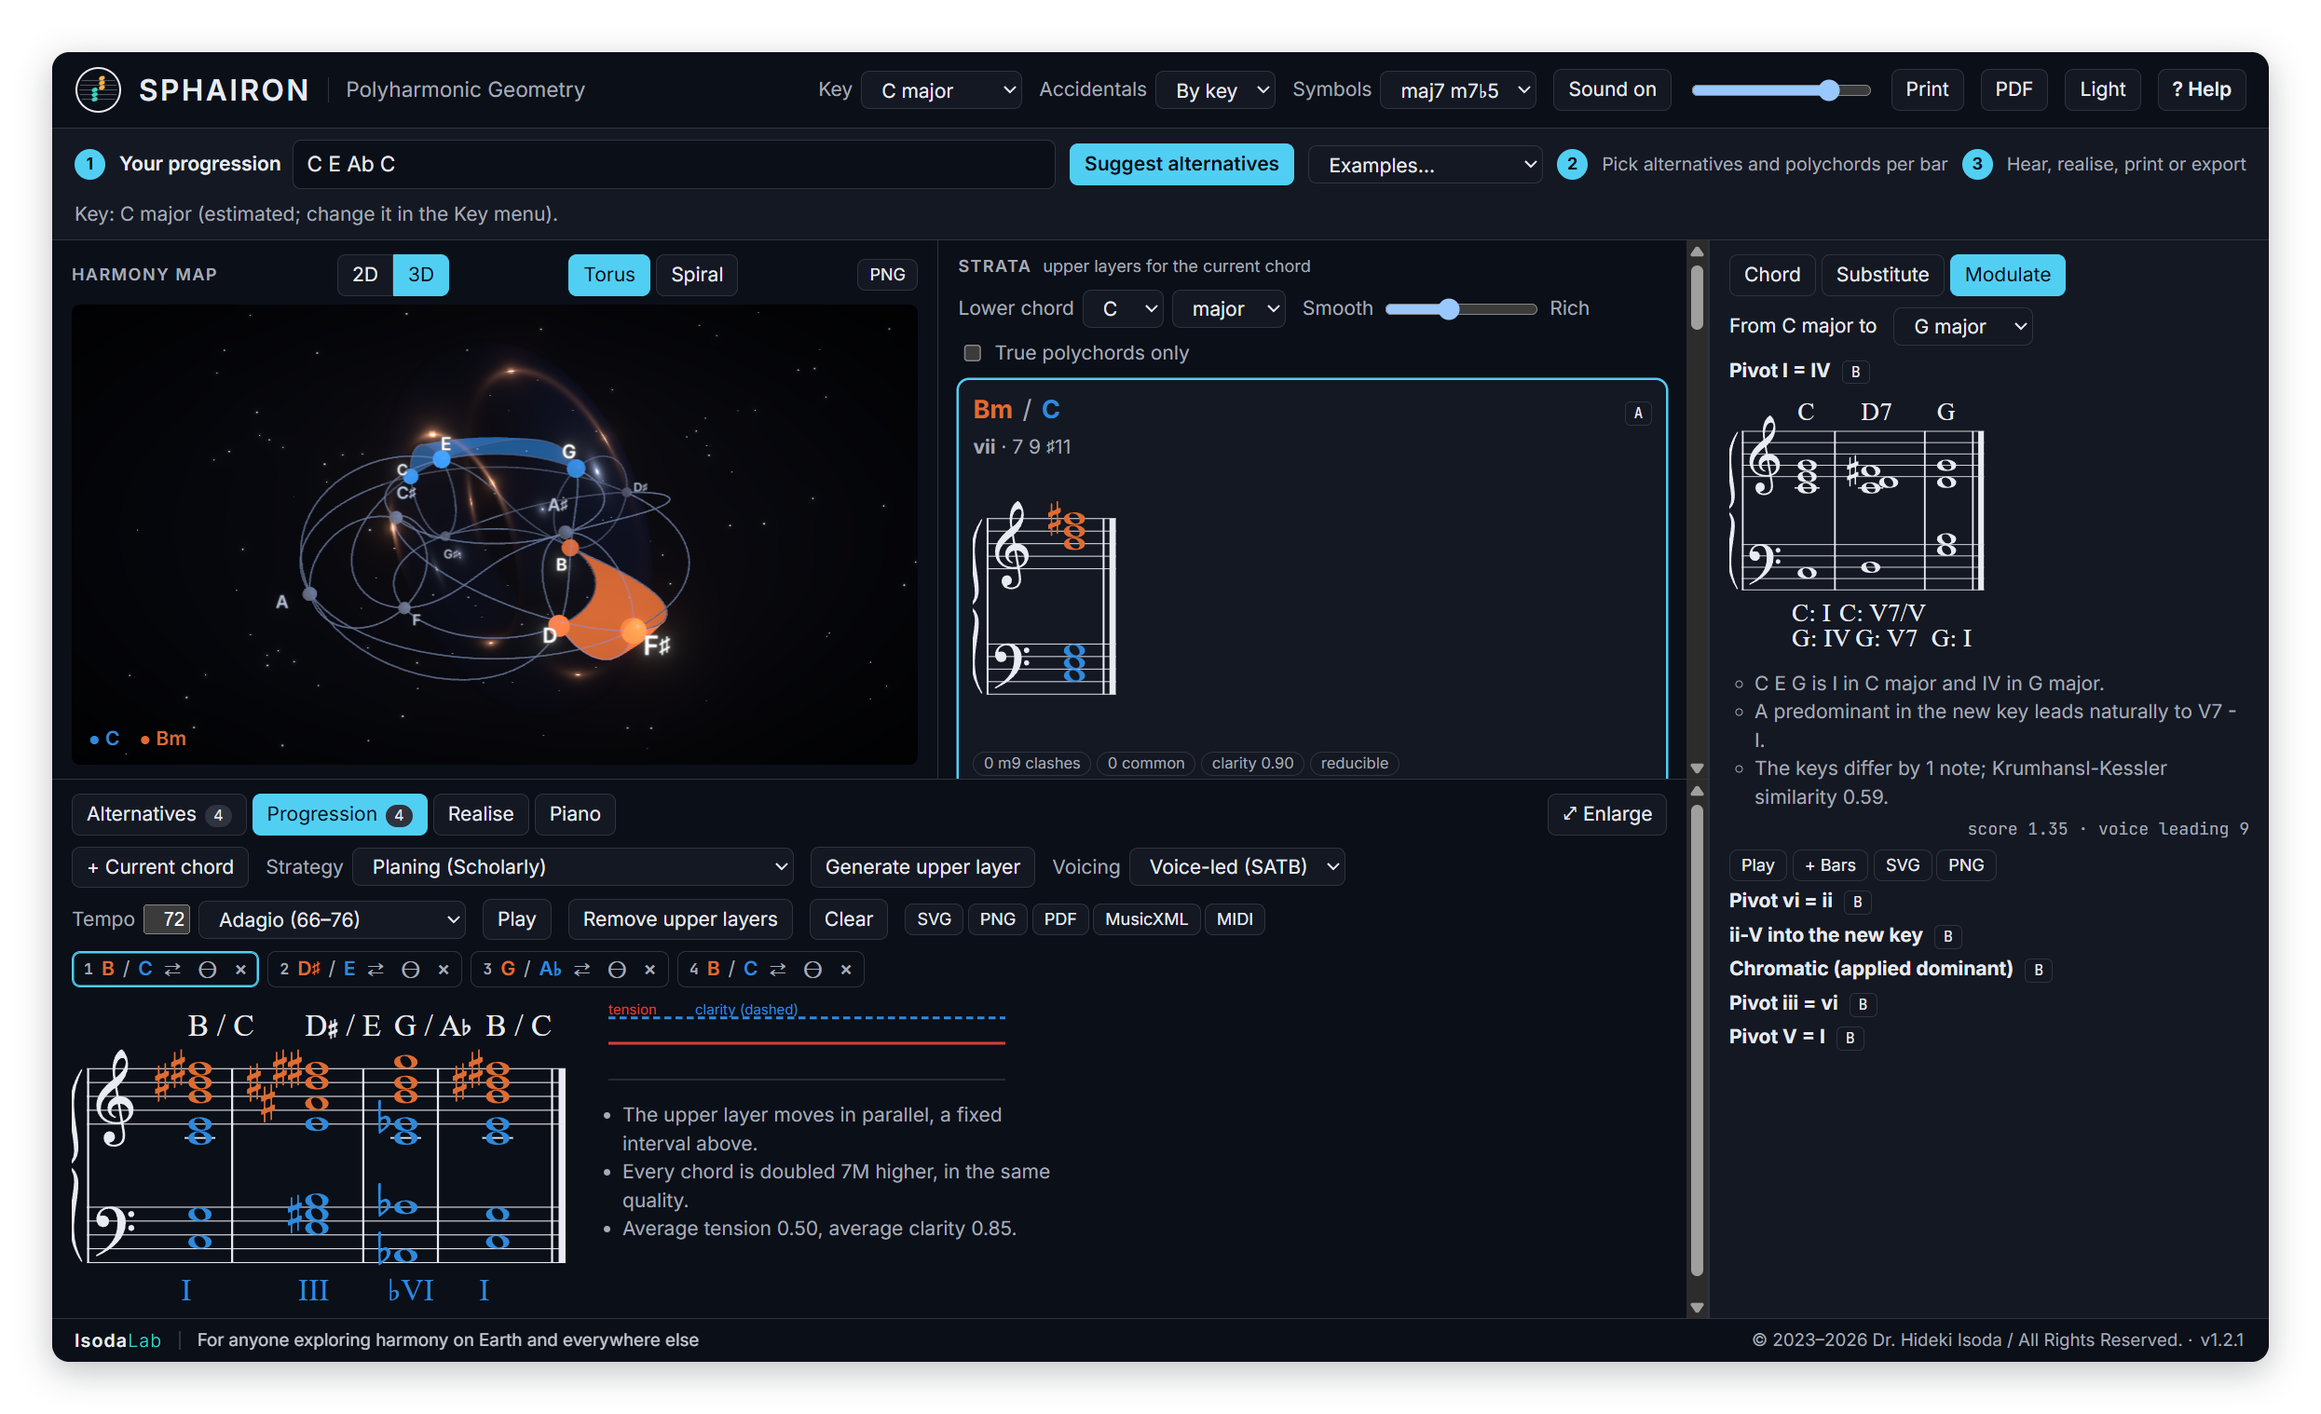
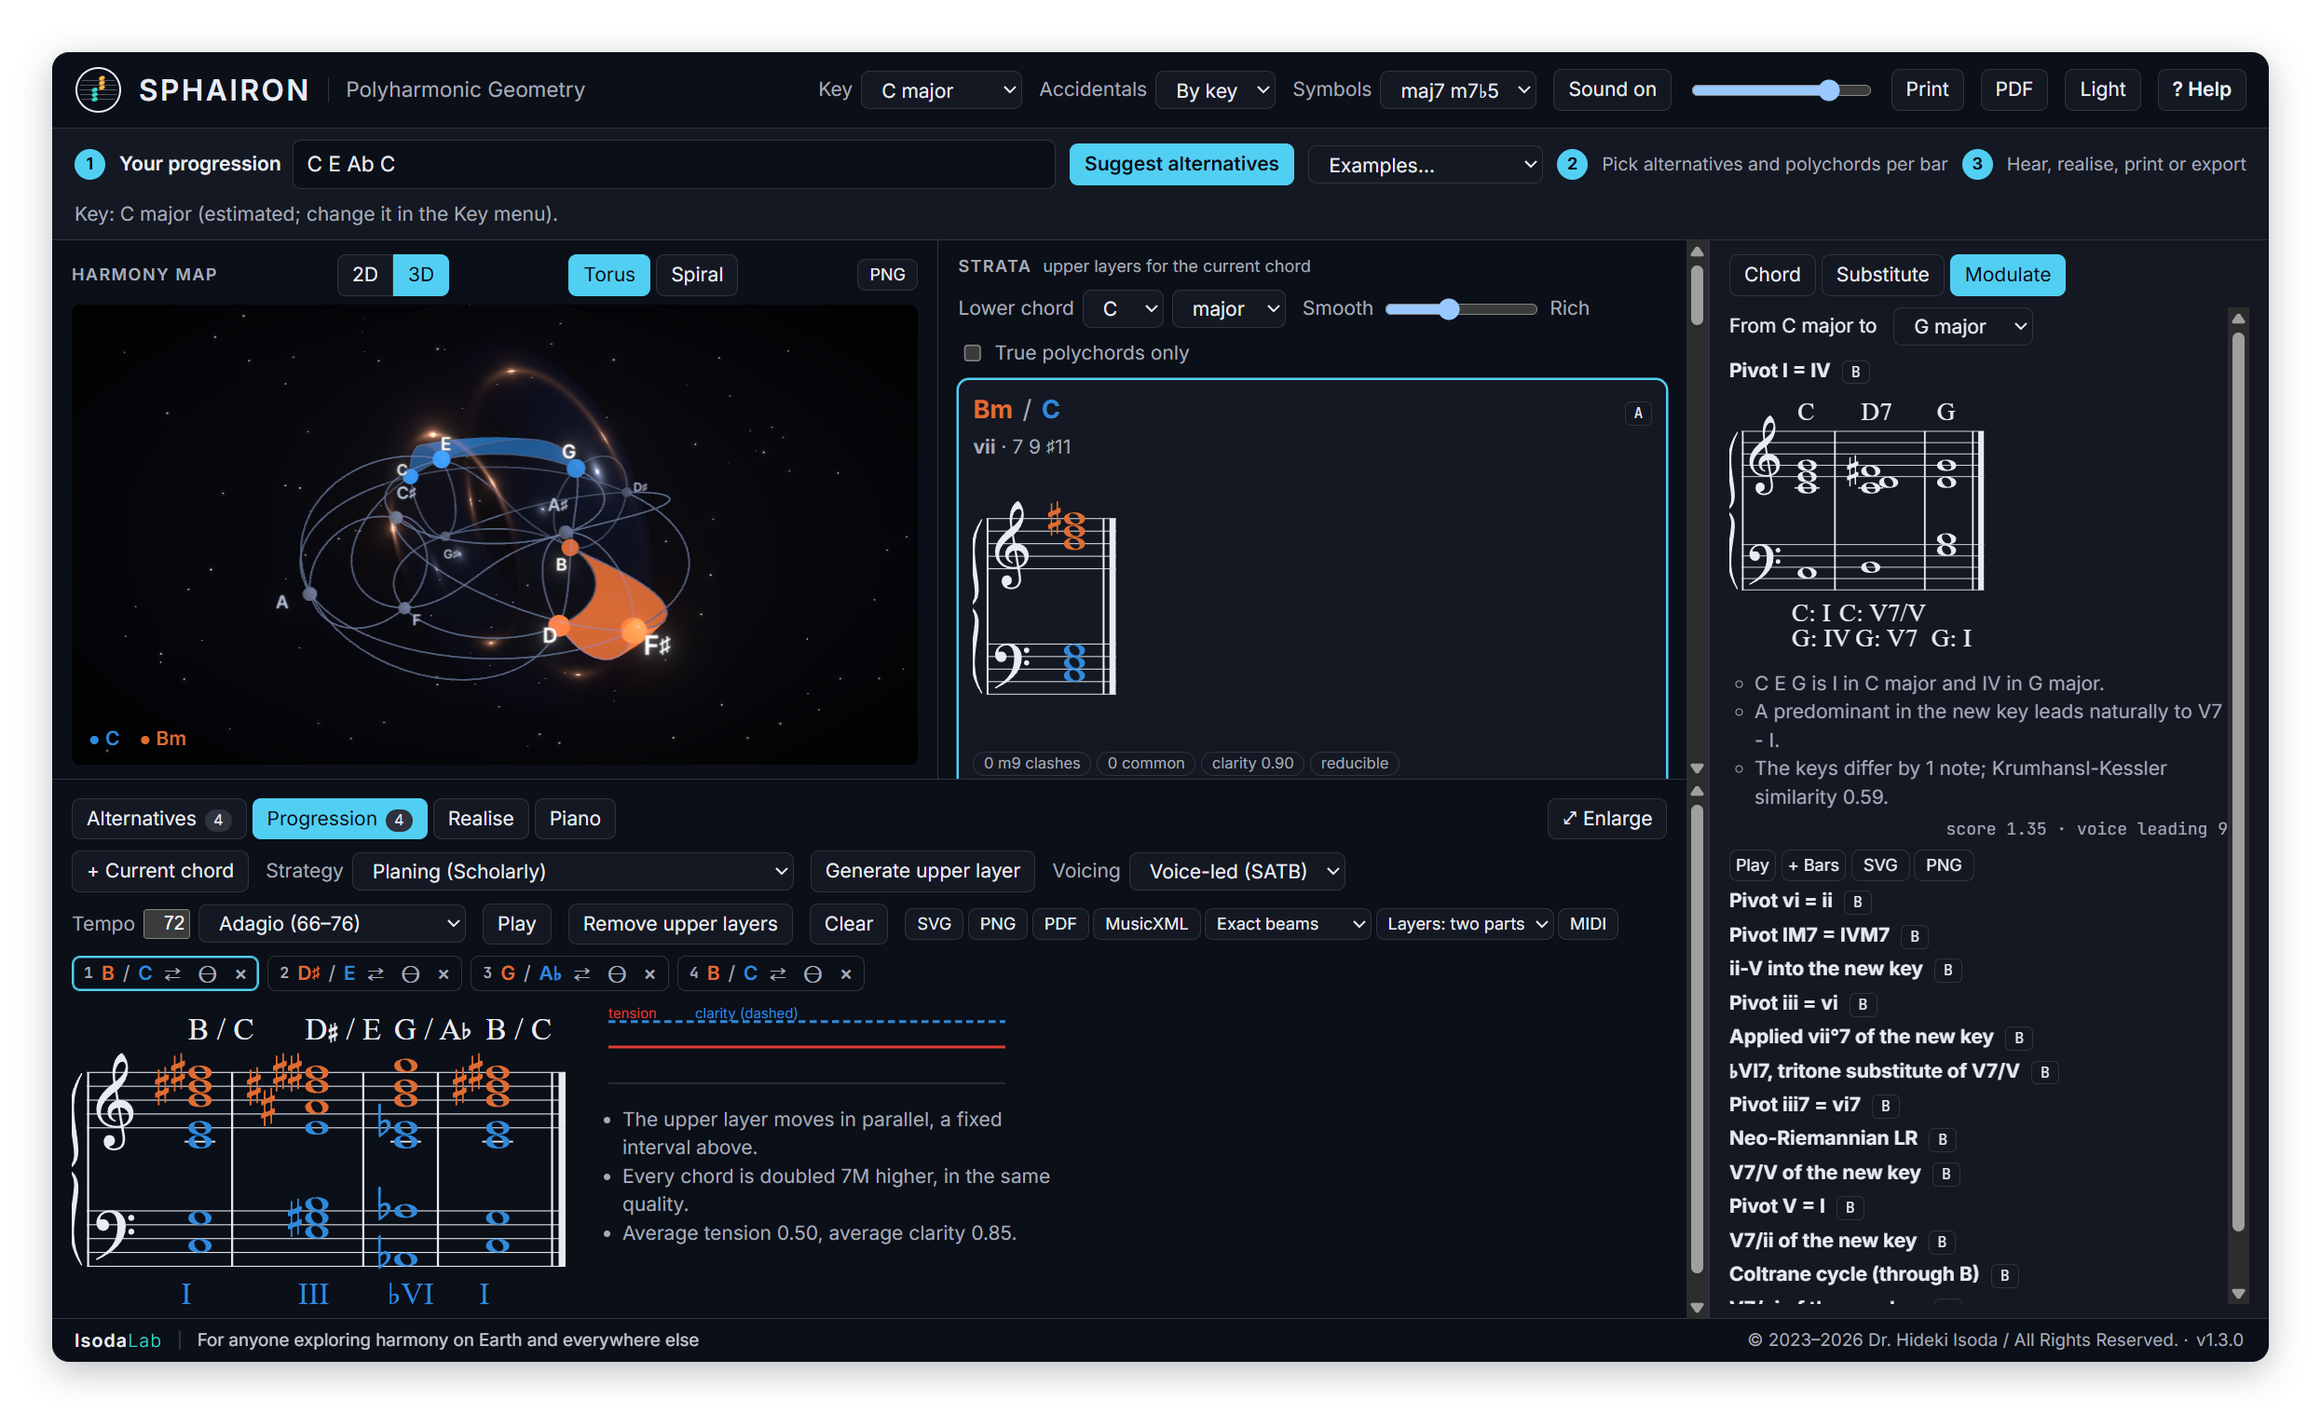
SPHAIRON 1.3.0

diff --git a/README.md b/README.md
@@ -9,7 +9,7 @@ IsodaLab<br>
 Free advanced music production software, created for the global creative community.</i></p>
 
 <p align="center">
-  <a href="https://github.com/isodalab/sphairon/releases/tag/v1.2.1"><b>Download 1.2.1</b></a> ·
+  <a href="https://github.com/isodalab/sphairon/releases/tag/v1.3.0"><b>Download 1.3.0</b></a> ·
   <a href="#install-on-windows">Install on Windows</a> ·
   <a href="#install-on-macos">Install on macOS</a> ·
   <a href="#install-on-linux">Install on Linux</a> ·
@@ -29,16 +29,16 @@ It runs on **Windows**, **macOS** (Apple silicon) and **Linux**, with the same f
 
 | Platform | Package | Requirements |
 |---|---|---|
-| **Windows** | [IsodaLab-SPHAIRON-1.2.1-Windows.zip](https://github.com/isodalab/sphairon/releases/download/v1.2.1/IsodaLab-SPHAIRON-1.2.1-Windows.zip) | 64-bit Windows 10 or 11 |
-| **macOS** | [IsodaLab-SPHAIRON-1.2.1-macOS-AppleSilicon.dmg](https://github.com/isodalab/sphairon/releases/download/v1.2.1/IsodaLab-SPHAIRON-1.2.1-macOS-AppleSilicon.dmg) | Mac with Apple silicon (M1 or later), macOS 12 or later |
-| **Linux** | [IsodaLab-SPHAIRON-1.2.1-Linux-x86_64.zip](https://github.com/isodalab/sphairon/releases/download/v1.2.1/IsodaLab-SPHAIRON-1.2.1-Linux-x86_64.zip) | 64-bit Linux (x86_64) with a desktop: Ubuntu 22.04+, Debian 12, Fedora 39+ or similar |
+| **Windows** | [IsodaLab-SPHAIRON-1.3.0-Windows.zip](https://github.com/isodalab/sphairon/releases/download/v1.3.0/IsodaLab-SPHAIRON-1.3.0-Windows.zip) | 64-bit Windows 10 or 11 |
+| **macOS** | [IsodaLab-SPHAIRON-1.3.0-macOS-AppleSilicon.dmg](https://github.com/isodalab/sphairon/releases/download/v1.3.0/IsodaLab-SPHAIRON-1.3.0-macOS-AppleSilicon.dmg) | Mac with Apple silicon (M1 or later), macOS 12 or later |
+| **Linux** | [IsodaLab-SPHAIRON-1.3.0-Linux-x86_64.zip](https://github.com/isodalab/sphairon/releases/download/v1.3.0/IsodaLab-SPHAIRON-1.3.0-Linux-x86_64.zip) | 64-bit Linux (x86_64) with a desktop: Ubuntu 22.04+, Debian 12, Fedora 39+ or similar |
 
-Every package contains the app, the **SPHAIRON Quick Start** guide (PDF) and the license. [SHA256SUMS.txt](https://github.com/isodalab/sphairon/releases/download/v1.2.1/SHA256SUMS.txt) lists the checksums. SPHAIRON is a standalone app: there is no installer, no account and no license key, and nothing else to install. The full guide is inside the app: click **? Help** or press **F1**.
+Every package contains the app, the **SPHAIRON Quick Start** guide (PDF) and the license. [SHA256SUMS.txt](https://github.com/isodalab/sphairon/releases/download/v1.3.0/SHA256SUMS.txt) lists the checksums. SPHAIRON is a standalone app: there is no installer, no account and no license key, and nothing else to install. The full guide is inside the app: click **? Help** or press **F1**.
 
 ## What it does
 
 - **Alternatives for every chord.** Type a progression (`C E Ab C`, `Dm7 G7 Cmaj7 A7`, slash chords such as `C/E` included) and get, for each bar, substitute chords read in context (neo-Riemannian moves, chromatic mediants and hexatonic poles, modal interchange, augmented sixths, tritone substitution, diatonic substitutes and more) and polychords. Click one to use it and hear it in context; every suggestion says why, with its sources.
-- **41 examples to start from.** Contemporary techniques first (hexatonic and octatonic cycles, hexatonic poles, chromatic mediants, dominants a minor third apart, planing, pedals, Lydian colour), then jazz (ii–V–I, tritone and backdoor substitution, rhythm changes, Coltrane changes, modal), classical and Romantic, and pop. SPHAIRON suggests the key from the chords; you can change it at any time.
+- **164 examples to start from.** Contemporary techniques first (neo-Riemannian operations, hexatonic and octatonic cycles, hexatonic poles, chromatic mediants, the axis system, planing, pedals, modes), then jazz (ii–V–I variants, tritone and backdoor substitution, turnarounds, blues forms, rhythm changes, Coltrane changes, modal), classical and Romantic (cadences, sequences, Gjerdingen's schemata, grounds, applied chords, mixture), and pop. SPHAIRON suggests the key from the chords; you can change it at any time.
 - **Polyharmony design (Strata).** For any chord, upper layers ranked from smooth to rich: upper-structure triads, true polychords, quartal layers. Each shows its tensions, half-step clashes, common tones and a clarity measure, on the staff and in 3D. Add an upper layer to a bar, replace it or remove it.
 - **Whole-progression strategies.** Give a progression an upper layer in one move: planing, pedal, bitonal, tritone, mode-bound or neo-Riemannian (and an experimental phasing strategy).
 - **Automatic part writing.** The progression arranged for four voices, plus three for an upper layer, under the common-practice rules of voice leading: complete chords (only the fifth may be left out, so a seventh chord keeps its seventh), no parallel fifths or octaves, no crossing, close spacing, tendency tones resolved, correct doubling. The result is checked again and the check is shown. Alternative arrangements (melody from the 3rd, 5th or root; close or open position; a smoother bass with inversions) are one click away.
@@ -46,7 +46,7 @@ Every package contains the app, the **SPHAIRON Quick Start** guide (PDF) and the
 - **Hear it in music.** Orchestration built on the arrangement (every instrument plays one voice, inside its practical range), playable piano figures, moving bass lines (passing, pedal, arpeggio, walking and more, each in the bass register of its instrument) and a counterpoint melody with alternative lines.
 - **Analysis.** Chord readings, set class (Forte name, prime form, interval vector), available notes and avoid notes (Berklee and Messiaen lenses), Roman numerals, and modulation routes to any key with both readings.
 - **Harmonic geometry.** A 3D torus Tonnetz and a spiral of fifths that show both layers of a polychord; a 2D pitch-class clock, circle of fifths and Tonnetz for building chords by clicking.
-- **Print and export.** An A4 sheet (print or PDF) with notation and analysis; SVG and high-resolution PNG notation; MIDI with General MIDI instruments; MusicXML for Dorico, Finale, MuseScore and Sibelius. Exported scores are black and white.
+- **Print and export.** An A4 sheet (print or PDF) with notation and analysis; SVG and high-resolution PNG notation; MIDI with General MIDI instruments; MusicXML for Dorico, Sibelius, MuseScore and Finale, with separate voices on each staff, ties, dots and beams by the meter, chord symbols, and polychords as two parts (tested in Dorico 6). Exported scores are black and white.
 - **MIDI keyboard.** Play a chord and SPHAIRON reads it at once.
 
 <p align="center">
@@ -76,7 +76,7 @@ SPHAIRON is free and isn't code-signed with a paid certificate, so Windows treat
 
 ## Install on macOS
 
-1. **Download** `IsodaLab-SPHAIRON-1.2.1-macOS-AppleSilicon.dmg` and double-click it.
+1. **Download** `IsodaLab-SPHAIRON-1.3.0-macOS-AppleSilicon.dmg` and double-click it.
 2. **Drag `SPHAIRON.app` to your Applications folder.** The Quick Start guide and the license are in the same window.
 3. **Open it.** The first time, macOS shows an alert saying *"SPHAIRON" Not Opened*. That's expected: SPHAIRON is free and isn't notarized with a paid Apple Developer ID. Click **Done**, not *Move to Trash*.
 4. **Open System Settings → Privacy & Security** and scroll down to **Security**. Next to *"SPHAIRON" was blocked to protect your Mac*, click **Open Anyway**. Enter your password (or use Touch ID) and confirm with **Open Anyway**. macOS remembers this: from now on SPHAIRON opens normally.
@@ -99,7 +99,7 @@ Then open SPHAIRON again.
 1. **Extract** the download with your file manager, or in a terminal:
 
    ```bash
-   unzip IsodaLab-SPHAIRON-1.2.1-Linux-x86_64.zip -d SPHAIRON
+   unzip IsodaLab-SPHAIRON-1.3.0-Linux-x86_64.zip -d SPHAIRON
    ```
 
 2. **Run it**, or add it to your applications menu:
@@ -141,7 +141,7 @@ Shortcuts are written for Windows and Linux; on a Mac, use **Cmd** where they sa
 
 ### Tutorial 1: Reharmonize a progression
 
-1. Type `C E Ab C` (major-third mediants) in **Your progression** and press **Suggest alternatives** (or Enter). You can also pick one of 41 progressions from **Examples…**: contemporary, jazz, classical and pop. SPHAIRON suggests the key from the chords (shown below the box); change it in the **Key** menu if you hear it otherwise.
+1. Type `C E Ab C` (major-third mediants) in **Your progression** and press **Suggest alternatives** (or Enter). You can also pick one of 164 progressions from **Examples…**: contemporary, jazz, classical and pop. SPHAIRON suggests the key from the chords (shown below the box); change it in the **Key** menu if you hear it otherwise.
 2. The **Alternatives** tab shows one column per bar: the chord as you entered it, then **Substitutes**, then **Polychords**. Each option shows its Roman numeral, the rule or structure behind it, and its tier: **A** scholarly, **B** pedagogy, **C** experimental (off unless *Experimental* is ticked).
 
    <p align="center"><img src="docs/images/tutorial-2-alternatives.png" alt="Alternatives for C E A♭ C: one column per bar with substitutes and polychords"></p>
@@ -190,7 +190,7 @@ Open **Realise** and press **⤢ Enlarge** for room. Every view starts from the 
 
   <p align="center"><img src="docs/images/tutorial-7-counterpoint.png" alt="Realise, Counterpoint: a melody over the voice-led harmony, with melody and arrangement options"></p>
 
-Press **Play** to hear any view. To start somewhere else, **click a note, chord or bar in the score**: the button becomes *Play from bar 2, beat 3*, and playback starts there (click the note again to start from the beginning). While it plays, the bar is marked in the score and the **harmony map follows the music**, lighting the chord and the notes sounding in 2D and 3D. **Tempo**: type a value, or scroll on the number to step through the traditional metronome markings. **MIDI** and **MusicXML** export the view.
+Press **Play** to hear any view. To start somewhere else, **click a note, chord or bar in the score**: the button becomes *Play from bar 2, beat 3*, and playback starts there (click the note again to start from the beginning). While it plays, the bar is marked in the score and the **harmony map follows the music**, lighting the chord and the notes sounding in 2D and 3D. **Tempo**: type a value, or scroll on the number to step through the traditional metronome markings. **MIDI** and **MusicXML** export the view. **Space** plays or stops the open tab; **Esc** stops. Drag the line above the bottom tabs to give them more or less room.
 
 ### Tutorial 5: Substitutions and modulations for one chord
 
@@ -198,7 +198,7 @@ Press **Play** to hear any view. To start somewhere else, **click a note, chord 
 
   <p align="center"><img src="docs/images/tutorial-9-substitute.png" width="900" alt="The Substitute tab for C"></p>
 
-- **Modulate**: choose a target key. Routes (pivot chord, ii–V into the new key, applied dominant, common tone, enharmonic, direct) are ranked by key distance, pivot quality and voice leading, and shown with both Roman-numeral readings, notation and playback.
+- **Modulate**: choose a target key. Up to 24 routes (pivot chords, including seventh-chord and mixture pivots; ii–V into the new key; applied dominants and leading-tone chords; tritone substitute; Coltrane cycle; neo-Riemannian P/L/R chains; sequence; through a closely related key; common tone; enharmonic; direct) are ranked by key distance, pivot quality and voice leading, and shown with both Roman-numeral readings, notation and playback.
 
   <p align="center"><img src="docs/images/tutorial-10-modulate.png" width="900" alt="The Modulate tab: routes from C major to G major with Roman numerals in both keys"></p>
 
@@ -208,7 +208,7 @@ Press **Play** to hear any view. To start somewhere else, **click a note, chord 
 
   <p align="center"><img src="docs/images/sphairon-print.png" width="760" alt="The printed sheet: polychord, analysis, upper layers table and progression in black notation"></p>
 
-- Every score has **SVG** (vector, sharp at any size), **PNG** (four times screen resolution), **MusicXML** (opens in Dorico, Finale, MuseScore and Sibelius) and, for progressions and realisations, **MIDI** (one track per layer or instrument, with General MIDI instruments). Maps export as SVG (2D) or PNG (3D).
+- Every score has **SVG** (vector, sharp at any size), **PNG** (four times screen resolution), **MusicXML** (opens in Dorico, Sibelius, MuseScore and Finale; beside the button choose *Exact beams* or *Program beams*, and for polychords *two parts* or *one staff*) and, for progressions and realisations, **MIDI** (one track per layer or instrument, with General MIDI instruments). Maps export as SVG (2D) or PNG (3D).
 
 ### Tutorial 7: Play from a MIDI keyboard
 

diff --git a/CHANGELOG.md b/CHANGELOG.md
@@ -2,6 +2,36 @@
 
 All notable changes to IsodaLab SPHAIRON: Polyharmonic Geometry.
 
+## 1.3.0 (2026-11-27)
+
+- MusicXML export rewritten for professional notation programs (Dorico
+  Pro, Sibelius Ultimate, MuseScore). The two hands of a piano part, and
+  the two layers of a polychord, no longer join into one voice across the
+  staves: voices are numbered per staff and never change staff. Rhythm is
+  kept exactly, with meter-aware values, dots and ties (across beats and
+  barlines), rests beat by beat, measure rests, and stems for two voices on
+  a staff. Soprano and alto (tenor and bass) are separate voices.
+- Beams: **Exact beams** (default) writes the beaming by the meter's beat
+  groups; **Program beams** leaves beaming to the notation program.
+- Polychords: as two parts, *Upper layer* and *Lower layer* (default), or
+  on one grand staff. Chord symbols are real MusicXML chord symbols; a
+  polychord is one stacked symbol (upper over lower).
+- Tested by importing into Dorico 6; validated against the MusicXML 4.0
+  schema and with music21.
+- Space plays or stops the open tab (Alternatives, Progression, Realise);
+  Escape stops.
+- The bottom tools can be resized: drag the line above the bottom tabs, or
+  use the arrow keys on it. The size is kept on this computer.
+- 164 example progressions (was 41): neo-Riemannian operations and cycles,
+  the axis system, planing and modes; ii-V variants, turnarounds, blues
+  forms and Coltrane changes; cadences, sequences, Gjerdingen's schemata,
+  grounds, applied chords and mixture; and more pop progressions.
+- Modulation: about 3.5 times as many routes (median 14 per pair of keys,
+  up to 24 shown): seventh-chord, minor-form and mixture pivots; the new
+  key's vii°7, V7/V and applied dominants; the tritone substitute of V7/V;
+  the Coltrane cycle; neo-Riemannian P/L/R chains; a ii-V-I sequence; and
+  routes through a closely related key.
+
 ## 1.2.1 (2026-11-27)
 
 - Part writing keeps every chord complete: all chord tones sound except,
